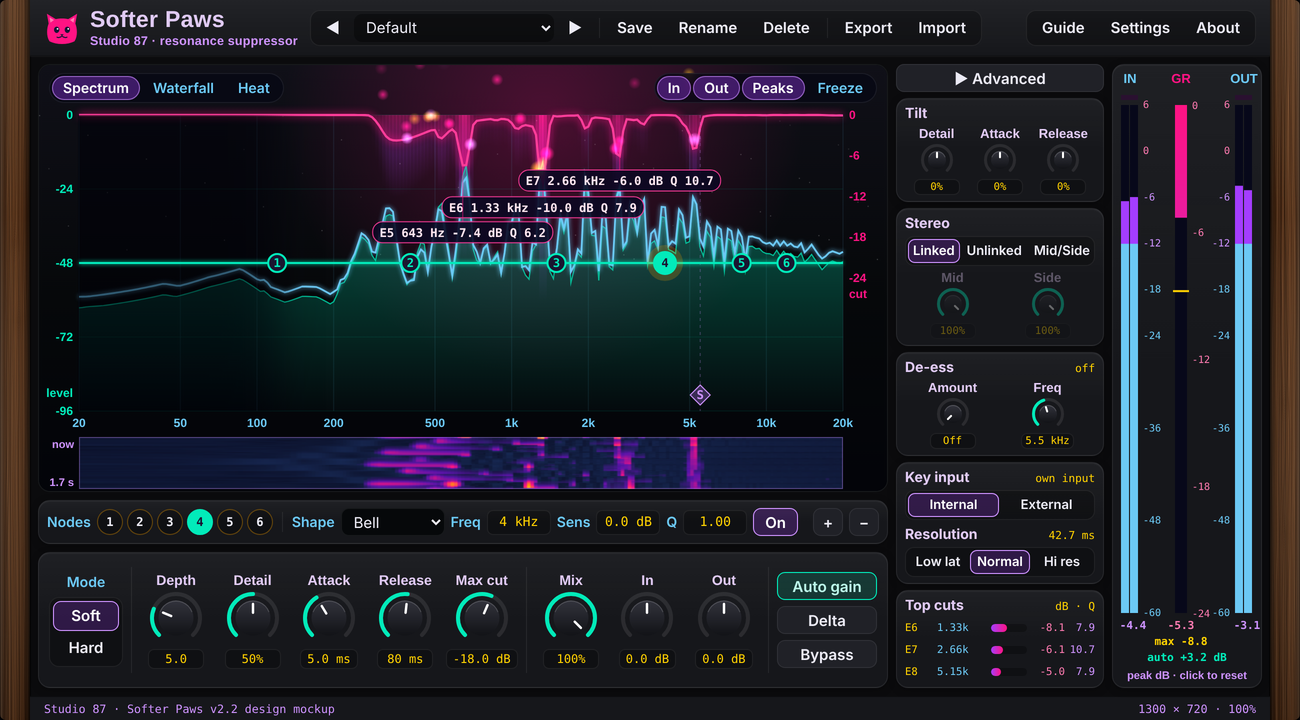
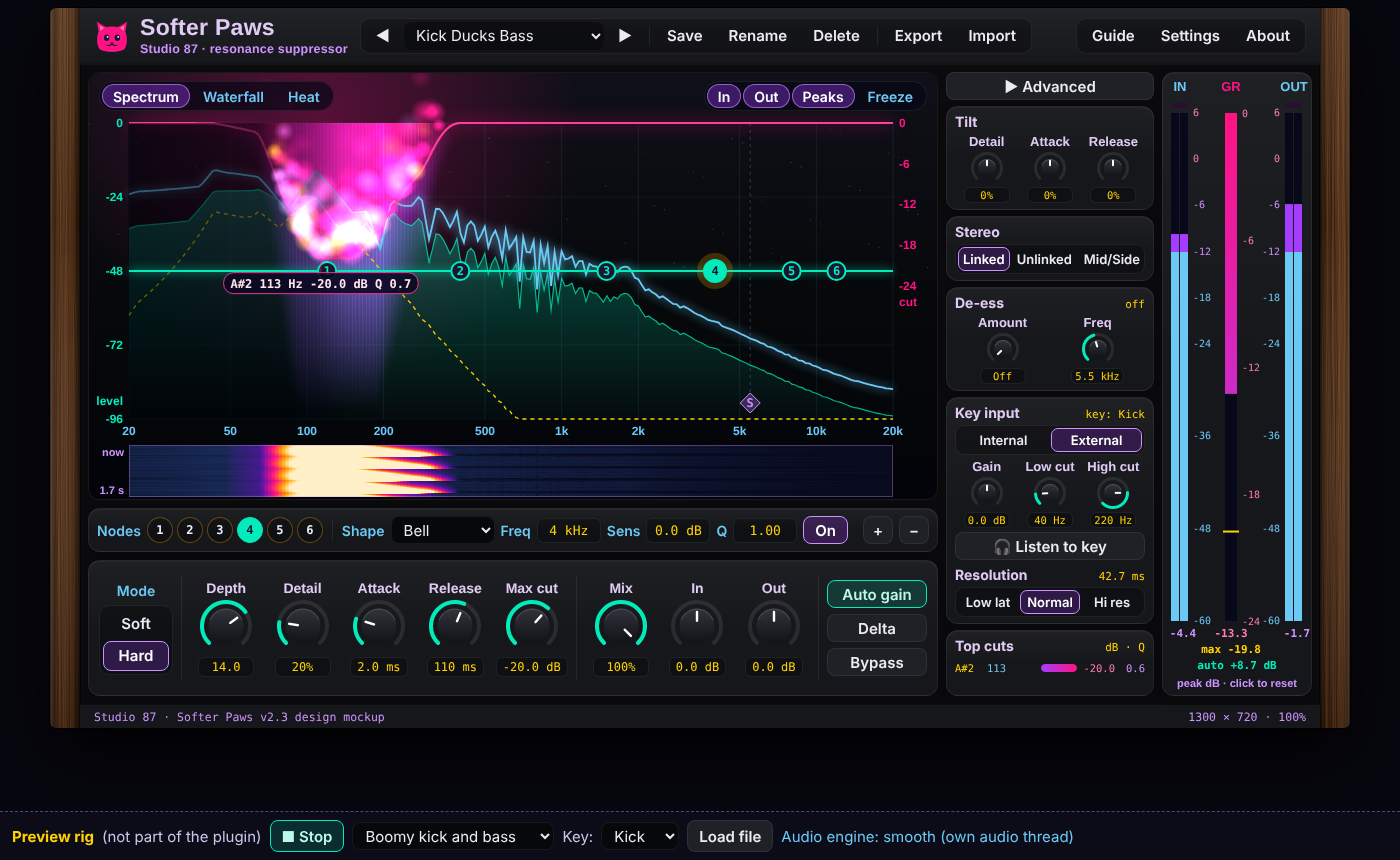
v2.3: sidechain key controls (Gain, Low cut, High cut, Listen to key), 2 key presets, side panel tidy
Claude-Session: https://claude.ai/code/session_01S9jrKxbC7Wx3CXKZyGedSz

diff --git a/docs/mockup/index.html b/docs/mockup/index.html
@@ -7,7 +7,6 @@
 @font-face{font-family:'Barlow Condensed';font-style:normal;font-weight:700;font-display:swap;src:url(fonts/barlow-condensed-latin-700-normal.woff2) format('woff2')}
 @font-face{font-family:'JetBrains Mono';font-style:normal;font-weight:500;font-display:swap;src:url(fonts/jetbrains-mono-latin-500-normal.woff2) format('woff2')}
 @font-face{font-family:'JetBrains Mono';font-style:normal;font-weight:700;font-display:swap;src:url(fonts/jetbrains-mono-latin-700-normal.woff2) format('woff2')}
-
 /* VOICE: studio tool, calm and exact, playful cat touches
    IDEA: a glowing night sky over the spectrum where every cut leaves a trail
    PICTURE: the big display, aurora of cuts, sparks, waterfall and heat views
@@ -182,14 +181,14 @@ footer{height:24px;flex:none;display:flex;align-items:center;justify-content:spa
     <div id="side">
      <button class="btn" id="sidebtn" data-tip="Show or hide the side panel with the advanced controls.">&#9654; Advanced</button>
      <div class="sec card"><h4>Tilt</h4><div class="row"><div class="kn sm" data-k="tiltDetail"></div><div class="kn sm" data-k="tiltAttack"></div><div class="kn sm" data-k="tiltRelease"></div></div></div>
-     <div class="sec card"><h4>Stereo</h4><div class="seg" data-c="stereo"></div><div class="row" style="margin-top:4px"><div class="kn sm" data-k="midAmt"></div><div class="kn sm" data-k="sideAmt"></div></div></div>
+     <div class="sec card"><h4>Stereo</h4><div class="seg" data-c="stereo"></div><div class="row" id="msrow" style="margin-top:4px"><div class="kn sm" data-k="midAmt"></div><div class="kn sm" data-k="sideAmt"></div></div></div>
      <div class="sec card"><h4>De-ess <small id="dsnow">off</small></h4><div class="row"><div class="kn sm" data-k="dsAmt"></div><div class="kn sm" data-k="dsFreq"></div></div></div>
-     <div class="sec card"><h4>Key input <small id="keynote">own input</small></h4><div class="seg" data-c="key"></div><h4 style="margin-top:6px">Resolution <small id="latnote">42.7 ms</small></h4><div class="seg" data-c="res"></div></div>
+     <div class="sec card"><h4>Key input <small id="keynote">own input</small></h4><div class="seg" data-c="key"></div><div class="row" id="keyrow" style="margin-top:4px"><div class="kn sm" data-k="keyGain"></div><div class="kn sm" data-k="keyLo"></div><div class="kn sm" data-k="keyHi"></div></div><button class="btn" id="bklisten" style="width:100%;margin-top:4px" data-tip="Listen to the key: hear the sound that Softer Paws is using as the key, after the same delay as the main sound, so you can set Gain, Low cut and High cut by ear. Only works when Key input is External. Switch it off again to hear the result.">&#127911; Listen to key</button><h4 style="margin-top:6px">Resolution <small id="latnote">42.7 ms</small></h4><div class="seg" data-c="res"></div></div>
      <div class="sec card" id="cuts" data-tip="Top cuts right now: note, frequency, how much is cut in dB, and the width of each cut (Q)."><h4>Top cuts <small>dB · Q</small></h4><div id="cutlist"></div></div>
     </div>
     <div id="meters" class="card"><canvas id="mcv"></canvas></div>
    </main>
-   <footer><span>Studio 87 · Softer Paws v2.2 design mockup</span><span id="size">1300 × 720 · 100%</span></footer>
+   <footer><span>Studio 87 · Softer Paws v2.3 design mockup</span><span id="size">1300 × 720 · 100%</span></footer>
   </div>
   <div class="cheek r" data-tip="Wood cheek. Double click to reset the window to 100%."></div>
  </div>
@@ -211,7 +210,7 @@ footer{height:24px;flex:none;display:flex;align-items:center;justify-content:spa
 class CalmEngine{
  constructor(sr){
   this.sr=sr;this.post=null;
-  this.p={mode:0,depth:5,detail:50,attack:5,release:80,maxcut:18,mix:100,delta:0,bypass:0,tiltDetail:0,tiltAttack:0,tiltRelease:0,stereo:0,midAmt:100,sideAmt:100,key:0,res:1,inGain:0,outTrim:0,freeze:0,autoGain:1,dsAmt:0,dsFreq:5500};this.mkDb=0;this.dsS=0;
+  this.p={mode:0,depth:5,detail:50,attack:5,release:80,maxcut:18,mix:100,delta:0,bypass:0,tiltDetail:0,tiltAttack:0,tiltRelease:0,stereo:0,midAmt:100,sideAmt:100,key:0,keyGain:0,keyLo:20,keyHi:20000,keyListen:0,res:1,inGain:0,outTrim:0,freeze:0,autoGain:1,dsAmt:0,dsFreq:5500};this.krb=new Float32Array(16384);this.kw=0;this.kfSig='';this.kfw=null;this.mkDb=0;this.dsS=0;
   this.nodes=[];this.srcL=null;this.srcR=null;this.pos=0;this.keyBuf=null;this.playing=false;
   this.B=220;this.dIn=new Float32Array(this.B);this.dOut=new Float32Array(this.B);this.dRed=new Float32Array(this.B);this.dKey=new Float32Array(this.B);
   this.pkIn=[0,0];this.pkOut=[0,0];this.grAvg=0;this.grMax=0;this.since=0;
@@ -267,6 +266,11 @@ class CalmEngine{
   else if(d.t==='key'){this.keyBuf=d.K;}
   else if(d.t==='play'){this.playing=d.on;if(d.on)this.pos=0;}
  }
+ keyShape(){/* key gain and key filter (12 dB per octave outside the band): changes only what the detector sees, never the sound */
+  const p=this.p,K=this.K,N=this.N,sr=this.sr,sig=p.keyLo+'|'+p.keyHi+'|'+N+'|'+sr;
+  if(sig!==this.kfSig||!this.kfw||this.kfw.length!==K){this.kfSig=sig;const w=this.kfw=new Float32Array(K);
+   for(let k=0;k<K;k++){const f=Math.max(1,k*sr/N);let d=0;if(p.keyLo>20.5&&f<p.keyLo)d-=12*Math.log2(p.keyLo/f);if(p.keyHi<19500&&f>p.keyHi)d-=12*Math.log2(f/p.keyHi);w[k]=d<-60?-60:d;}}
+  const g=p.keyGain,w=this.kfw,kd=this.kd;for(let k=0;k<K;k++)kd[k]+=g+w[k];}
  fft(re,im,inv){const N=this.N,rv=this.rev;
   for(let i=0;i<N;i++){const j=rv[i];if(j>i){let t=re[i];re[i]=re[j];re[j]=t;t=im[i];im[i]=im[j];im[j]=t;}}
   for(let size=2;size<=N;size<<=1){const half=size>>1,step=N/size;
@@ -297,7 +301,7 @@ class CalmEngine{
    for(let i=0;i<N;i++){re[i]=f[i]*w[i];im[i]=0;}this.fft(re,im,false);f.copyWithin(0,H);
    for(let k=0;k<K;k++)d[k]=10*Math.log10((re[k]*re[k]+im[k]*im[k])*sc2+1e-14);}
   const ext=p.key===1;
-  {const f=this.kfifo,re=this.kre,im=this.kim;if(ext){for(let i=0;i<N;i++){re[i]=f[i]*w[i];im[i]=0;}this.fft(re,im,false);for(let k=0;k<K;k++)this.kd[k]=10*Math.log10((re[k]*re[k]+im[k]*im[k])*sc2+1e-14);}f.copyWithin(0,H);}
+  {const f=this.kfifo,re=this.kre,im=this.kim;if(ext){for(let i=0;i<N;i++){re[i]=f[i]*w[i];im[i]=0;}this.fft(re,im,false);for(let k=0;k<K;k++)this.kd[k]=10*Math.log10((re[k]*re[k]+im[k]*im[k])*sc2+1e-14);this.keyShape();}f.copyWithin(0,H);}
   let A,Bd;
   if(ext){A=Bd=this.kd;}
   else if(p.stereo===0){const a=this.d[0],b=this.d[1],o=this.dl;for(let k=0;k<K;k++)o[k]=10*Math.log10(0.5*(Math.pow(10,a[k]/10)+Math.pow(10,b[k]/10))+1e-14);A=Bd=o;}
@@ -350,10 +354,11 @@ class CalmEngine{
    if(this.playing&&len){l=sL[this.pos];r=sR[this.pos];if(kl)k=kb[this.pos%kl];this.pos++;if(this.pos>=len)this.pos=0;}
    l*=gi;r*=gi;const al=Math.abs(l),ar=Math.abs(r);if(al>this.pkIn[0])this.pkIn[0]=al;if(ar>this.pkIn[1])this.pkIn[1]=ar;
    let a=l,b=r;if(ms){a=(l+r)*0.5;b=(l-r)*0.5;}
-   const j=N-H+this.fill;this.fifo[0][j]=a;this.fifo[1][j]=b;this.kfifo[j]=k;
+   const j=N-H+this.fill;this.fifo[0][j]=a;this.fifo[1][j]=b;this.kfifo[j]=k;this.krb[this.kw&16383]=k;this.kw++;
    let oa=this.outQ[0][this.fill],ob=this.outQ[1][this.fill];this.fill++;
    if(this.fill>=H){this.frame();this.fill=0;}
    if(ms){l=oa+ob;r=oa-ob;}else{l=oa;r=ob;}
+   if(p.keyListen&&p.key===1){const kk=this.krb[(this.kw-1-N)&16383]*gi;l=kk;r=kk;}/* listen to the key: delayed like the main path */
    l*=go;r*=go;if(!(l===l))l=0;if(!(r===r))r=0;
    oL[i]=l;oR[i]=r;const bl=Math.abs(l),br=Math.abs(r);if(bl>this.pkOut[0])this.pkOut[0]=bl;if(br>this.pkOut[1])this.pkOut[1]=br;}
  }
@@ -384,6 +389,9 @@ const PD={
  ng:{min:-12,max:12,def:0,bip:1,f:db,lab:'Sens',tip:'Sensitivity of the selected node. Up: work harder here. Down: leave this range alone.'},
  nq:{min:0.2,max:8,def:1,log:1,f:v=>v.toFixed(2),lab:'Q',tip:'Width of the selected node. Higher is narrower. Mouse wheel on a node does the same.'},
  dsAmt:{min:0,max:12,def:0,f:v=>v<0.05?'Off':'-'+v.toFixed(1)+' dB',lab:'Amount',tip:'De-ess amount: the most the esses (S, T, SH sounds) are turned down. It only acts when the band above Freq gets as loud as the body of the sound below it, so vowels stay untouched. 0 = off.'},
+ keyGain:{min:-24,max:24,def:0,bip:1,f:db,lab:'Gain',tip:'Key gain: makes the key louder or quieter for detection only. A louder key makes Softer Paws duck more. It never changes the key sound you hear.'},
+ keyLo:{min:20,max:2000,def:20,log:1,f:v=>v<=20.5?'Off':hz(v),lab:'Low cut',tip:'Key low cut: the key is ignored below this frequency (12 dB per octave). Use it so a kick key does not duck frequencies you want to keep.'},
+ keyHi:{min:1000,max:20000,def:20000,log:1,f:v=>v>=19500?'Off':hz(v),lab:'High cut',tip:'Key high cut: the key is ignored above this frequency (12 dB per octave). Use it to let only the low part of a kick duck the bass.'},
  dsFreq:{min:3000,max:12000,def:5500,log:1,f:hz,lab:'Freq',tip:'De-ess frequency: where the ess band starts. Around 5 to 7 kHz for most voices, lower for deep voices. You can also drag the S handle on the display.'}
 };
 const CH={mode:['Soft','Hard'],stereo:['Linked','Unlinked','Mid/Side'],key:['Internal','External'],res:['Low lat','Normal','Hi res']};
@@ -394,7 +402,7 @@ const CHT={mode:'Soft: adaptive threshold, the most transparent; it follows the 
 const TYPES=['Bell','Low shelf','High shelf','Low cut','High cut','Band pass','Notch','Tilt'];
 const GAINTYPES=new Set([0,1,2,7]);
 const P={};for(const k in PD)if(!k.startsWith('n'))P[k]=PD[k].def;
-Object.assign(P,{mode:0,stereo:0,key:0,res:1,delta:0,bypass:0,freeze:0,autoGain:1});
+Object.assign(P,{mode:0,stereo:0,key:0,res:1,delta:0,bypass:0,freeze:0,autoGain:1,keyListen:0});
 const defNodes=()=>[{type:3,f:120,g:0,q:1,on:1},{type:0,f:400,g:0,q:1,on:1},{type:0,f:1500,g:0,q:1,on:1},{type:0,f:4000,g:0,q:1,on:1},{type:0,f:8000,g:0,q:1,on:1},{type:2,f:12000,g:0,q:1,on:1}];
 let nodes=defNodes(),sel=3;
 const S={tips:true,look:'b',vis:1,power:0,view:0,showIn:1,showOut:1,peaks:1};
@@ -402,7 +410,7 @@ try{Object.assign(S,JSON.parse(localStorage.getItem('softerpaws.settings.v2')||'
 const saveS=()=>{try{localStorage.setItem('softerpaws.settings.v2',JSON.stringify(S));}catch(e){}};
 
 /* ---------- presets ---------- */
-const mkP=(o,nm)=>({p:Object.assign({mode:0,depth:5,detail:50,attack:5,release:80,maxcut:18,mix:100,delta:0,bypass:0,tiltDetail:0,tiltAttack:0,tiltRelease:0,stereo:0,midAmt:100,sideAmt:100,key:0,res:1,inGain:0,outTrim:0,autoGain:1,dsAmt:0,dsFreq:5500},o),n:nm||defNodes()});
+const mkP=(o,nm)=>({p:Object.assign({mode:0,depth:5,detail:50,attack:5,release:80,maxcut:18,mix:100,delta:0,bypass:0,tiltDetail:0,tiltAttack:0,tiltRelease:0,stereo:0,midAmt:100,sideAmt:100,key:0,keyGain:0,keyLo:20,keyHi:20000,res:1,inGain:0,outTrim:0,autoGain:1,dsAmt:0,dsFreq:5500},o),n:nm||defNodes()});
 const nn=(arr)=>arr.map(a=>({type:a[0],f:a[1],g:a[2],q:a[3]??1,on:1}));
 const FACT={
  'Default':mkP({}),
@@ -414,6 +422,8 @@ const FACT={
  'Kick Ring Control':mkP({mode:1,depth:8,detail:75,attack:12,release:150,tiltAttack:-40},nn([[5,140,0,0.8],[0,60,-3],[0,180,3],[0,400,0],[0,4000,0],[2,12000,0]])),
  'Master Gentle':mkP({depth:3,detail:35,attack:20,release:250,maxcut:6,mix:80,stereo:2,sideAmt:60},nn([[1,100,-6],[0,400,0],[0,1500,0],[0,3500,2],[0,8000,0],[2,14000,0]])),
  'Sidechain Space':mkP({mode:1,depth:12,detail:30,attack:5,release:120,key:1}),
+ 'Kick Ducks Bass':mkP({mode:1,depth:14,detail:20,attack:2,release:110,key:1,keyLo:40,keyHi:220,maxcut:20}),
+ 'Vocal Makes Room':mkP({mode:0,depth:8,detail:40,attack:6,release:120,key:1,keyLo:200,keyHi:6000,maxcut:10}),
  'De-ess Vocal':mkP({depth:3,detail:60,dsAmt:8,dsFreq:5500}),
  'Resonance Isolate':mkP({depth:10,detail:85,delta:1})
 };
@@ -423,8 +433,8 @@ let cur='Default';
 function fillPresets(){const s=$('#pname');s.innerHTML='<optgroup label="Factory">'+Object.keys(FACT).map(n=>`<option value="f:${n}">${n}</option>`).join('')+'</optgroup>'+(Object.keys(USER).length?'<optgroup label="Your presets">'+Object.keys(USER).map(n=>`<option value="u:${esc(n)}">${esc(n)}</option>`).join('')+'</optgroup>':'');s.value=(USER[cur]?'u:':'f:')+cur;}
 const esc=s=>String(s).replace(/[&<>"]/g,c=>({'&':'&amp;','<':'&lt;','>':'&gt;','"':'&quot;'}[c]));
 function loadPreset(key){const isU=key.startsWith('u:'),nm=key.slice(2),pr=isU?USER[nm]:FACT[nm];if(!pr)return;cur=nm;
- Object.assign(P,pr.p);P.freeze=0;nodes=pr.n.map(o=>({...o}));sel=Math.min(sel,nodes.length-1);sendAll();refreshAll();fillPresets();}
-const snap=()=>({p:Object.fromEntries(Object.entries(P).filter(([k])=>k!=='freeze')),n:nodes.map(o=>({...o}))});
+ P.keyGain=0;P.keyLo=20;P.keyHi=20000;Object.assign(P,pr.p);P.freeze=0;P.keyListen=0;nodes=pr.n.map(o=>({...o}));sel=Math.min(sel,nodes.length-1);sendAll();refreshAll();fillPresets();}
+const snap=()=>({p:Object.fromEntries(Object.entries(P).filter(([k])=>k!=='freeze'&&k!=='keyListen')),n:nodes.map(o=>({...o}))});
 
 /* ---------- engine link ---------- */
 let ac=null,send=()=>{},running=false,playing=false,engMode='';
@@ -511,16 +521,16 @@ function makeWood(right){const W=60,H=1440,cv=document.createElement('canvas');c
  x.restore();return cv.toDataURL();}
 for(const ch of $$('.cheek'))ch.style.backgroundImage=`url(${makeWood(ch.classList.contains('r'))})`;
 function buildChoices(){for(const el of $$('[data-c]')){const id=el.dataset.c;el.dataset.tip=CHT[id];el.innerHTML=CH[id].map((t,i)=>`<button class="btn" data-i="${i}">${t}</button>`).join('');
- el.addEventListener('click',e=>{const b=e.target.closest('button');if(!b)return;P[id]=+b.dataset.i;send({t:'p',id,v:P[id]});drawChoice(id);sideNotes();});drawChoice(id);}}
+ el.addEventListener('click',e=>{const b=e.target.closest('button');if(!b)return;P[id]=+b.dataset.i;send({t:'p',id,v:P[id]});drawChoice(id);toggles();sideNotes();});drawChoice(id);}}
 const drawChoice=id=>{for(const b of $$(`[data-c="${id}"] button`))b.classList.toggle('on',+b.dataset.i===P[id]);};
 function sideNotes(){const N=[512,2048,4096][P.res],sr=ac?ac.sampleRate:48000;$('#latnote').textContent=`${(N/sr*1000).toFixed(1)} ms`;
  $('#keynote').textContent=P.key?'key: '+$('#ksrc').selectedOptions[0].text:'own input';
- for(const id of ['midAmt','sideAmt'])knobs[id].el.style.opacity=P.stereo===2?1:0.35;}
-function toggles(){$('#bauto').classList.toggle('goodOn',!!P.autoGain);$('#bdelta').classList.toggle('hotOn',!!P.delta);$('#bbyp').classList.toggle('hotOn',!!P.bypass);$('#tfrz').classList.toggle('on',!!P.freeze);
+ $('#msrow').style.display=P.stereo===2?'':'none';}
+function toggles(){$('#bauto').classList.toggle('goodOn',!!P.autoGain);$('#bklisten').classList.toggle('hotOn',!!P.keyListen);$('#bklisten').style.opacity=P.key?1:0.5;$('#bdelta').classList.toggle('hotOn',!!P.delta);$('#bbyp').classList.toggle('hotOn',!!P.bypass);$('#tfrz').classList.toggle('on',!!P.freeze);
  $('#tin').classList.toggle('on',!!S.showIn);$('#tout').classList.toggle('on',!!S.showOut);$('#tpk').classList.toggle('on',!!S.peaks);
  for(const t of $$('#tabs .tab'))t.classList.toggle('on',+t.dataset.view===S.view);}
 const tgl=(id)=>{P[id]=P[id]?0:1;send({t:'p',id,v:P[id]});toggles();};
-$('#bauto').onclick=()=>tgl('autoGain');$('#bdelta').onclick=()=>tgl('delta');$('#bbyp').onclick=()=>tgl('bypass');$('#tfrz').onclick=()=>tgl('freeze');
+$('#bklisten').onclick=()=>{if(!P.key)return;tgl('keyListen');};$('#bauto').onclick=()=>tgl('autoGain');$('#bdelta').onclick=()=>tgl('delta');$('#bbyp').onclick=()=>tgl('bypass');$('#tfrz').onclick=()=>tgl('freeze');
 $('#tin').onclick=()=>{S.showIn^=1;saveS();toggles();};$('#tout').onclick=()=>{S.showOut^=1;saveS();toggles();};$('#tpk').onclick=()=>{S.peaks^=1;saveS();toggles();};
 for(const t of $$('#tabs .tab'))t.onclick=()=>{S.view=+t.dataset.view;saveS();toggles();};
 $('#sidebtn').onclick=()=>{const s=$('#side');s.classList.toggle('closed');$('#sidebtn').innerHTML=s.classList.contains('closed')?'&#9664;':'&#9654; Advanced';};
@@ -567,7 +577,7 @@ $('#pimp').onclick=()=>{dlg('Import preset','<textarea id="dtxt" placeholder="Pa
   const n=o.n.map(x=>({type:Math.max(0,Math.min(7,Math.round(+x.type||0))),f:Math.max(20,Math.min(20000,+x.f||1000)),g:Math.max(-12,Math.min(12,+x.g||0)),q:Math.max(0.2,Math.min(8,+x.q||1)),on:x.on?1:0}));
   let nm=String(o.name||'Imported').slice(0,40);while(USER[nm]||FACT[nm])nm+=' +';USER[nm]=mkP(p,n);saveU();loadPreset('u:'+nm);}
  catch(e){$('#derr').textContent='Could not import: '+(typeof e==='string'?e:'the text is not valid');return true;}}]]);};
-$('#bguide').onclick=()=>dlg('Guide',`<p>Softer Paws listens for sharp, ringing frequencies (resonances) and turns them down only while they ring. Everything else stays as it is.</p>
+$('#bguide').onclick=()=>dlg('Guide',`<p>Softer Paws listens for sharp, ringing frequencies (resonances) and turns them down only while they ring. Everything else stays as it is.</p><p><b>Sidechain:</b> set Key input to External and send another track to the key input. Softer Paws then turns down your sound only where that key is busy, for example a kick ducking a bass or a vocal making room in a lead. Gain, Low cut and High cut shape what it listens to; Listen to key lets you hear it.</p>
 <ol><li>Press Play in the preview rig, or load your own file.</li><li>Raise <b>Depth</b> until the harshness calms down. Use <b>Delta</b> to hear what is removed: it should sound like the harsh part, not the music.</li>
 <li>Set <b>Detail</b>: high for narrow whistles and ringing, low for broad build-ups.</li><li>Drag the amber nodes: up means work harder there, down means leave it alone. Cuts, Band pass and Notch decide where it may work at all.</li>
 <li>Use <b>Attack</b> to keep transients, <b>Release</b> for smoothness.</li><li>For vocals, raise <b>De-ess Amount</b> and set its <b>Freq</b> where the esses start (drag the S handle on the display).</li><li>Keep <b>Auto gain</b> on to compare tone at equal loudness.</li></ol>

diff --git a/README.md b/README.md
@@ -15,7 +15,7 @@ Design stage. There is no plugin to download yet. The interactive mockup in `doc
 - Up to 8 sensitivity nodes (Bell, Low shelf, High shelf, Low cut, High cut, Band pass, Notch, Tilt) to steer where it works.
 - Built-in de-esser for S, T and SH sounds.
 - Auto gain keeps the processed sound as loud as the input, so you judge tone, not level.
-- Delta (hear only what is removed), Mix, stereo Linked, Unlinked or Mid/Side, external key input.
+- Delta (hear only what is removed), Mix, stereo Linked, Unlinked or Mid/Side, external key (sidechain) input with Gain, Low cut, High cut and Listen to key, so a kick can duck a bass or a vocal can make room in a lead.
 - Big live display: spectrum with the cuts, waterfall, heat map, and labels with note, frequency, cut and Q of the strongest resonances.
 
 ## Licence
